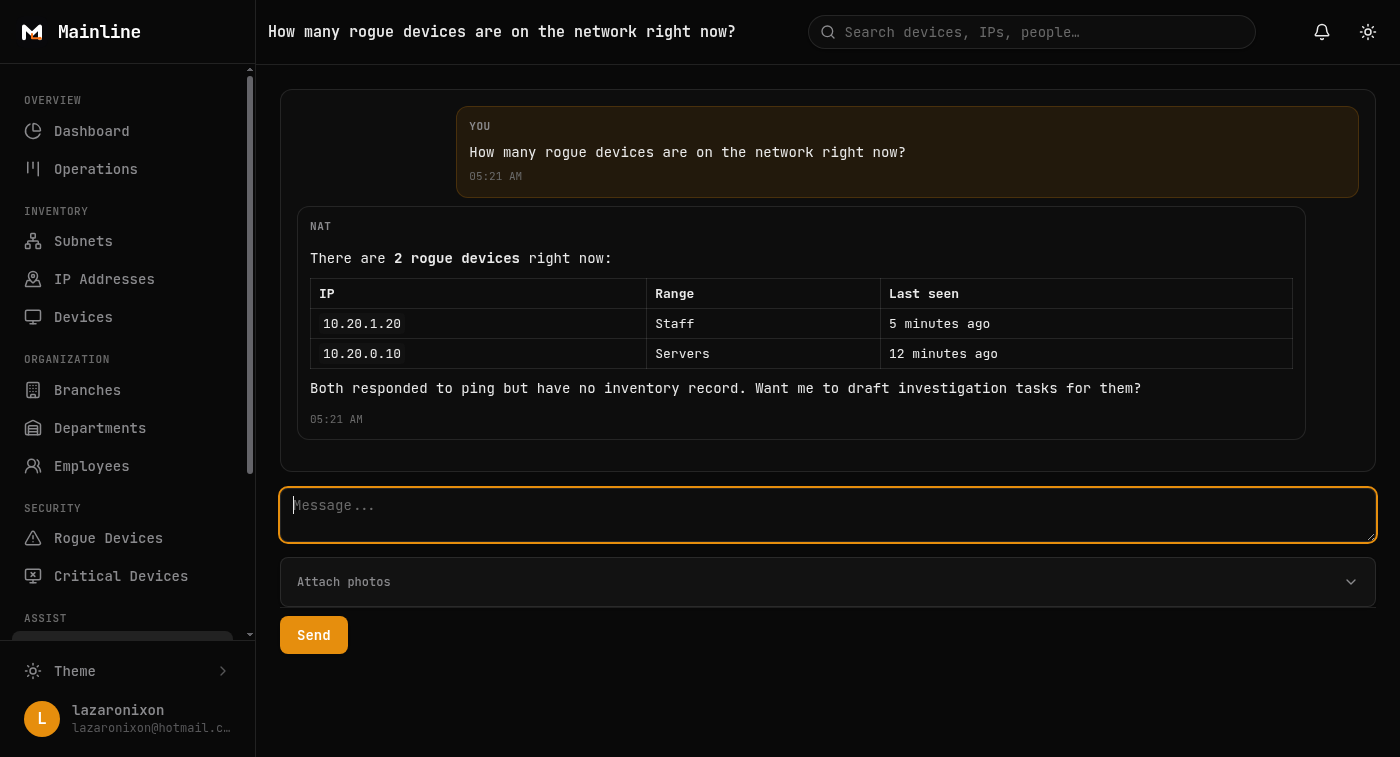
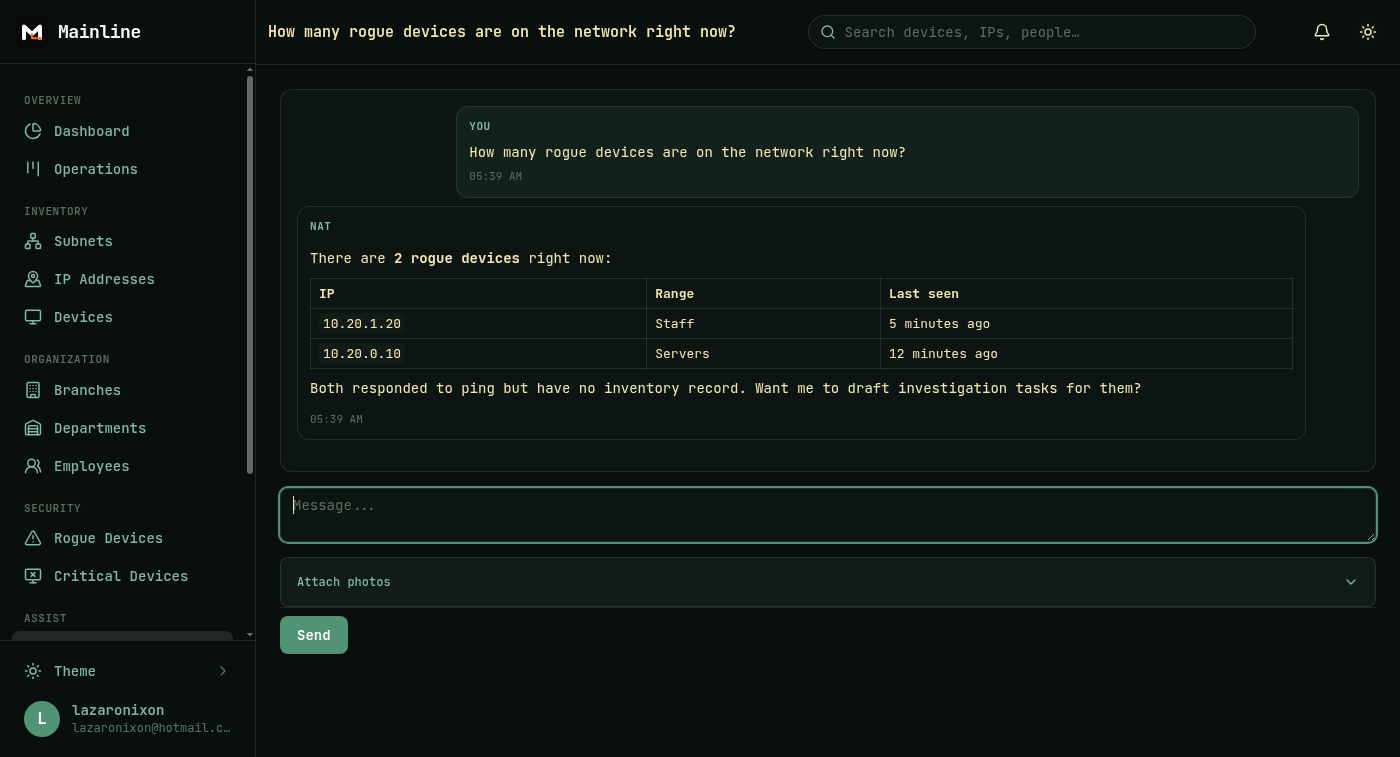
Recapture README screenshots in Osaka Jade

diff --git a/README.md b/README.md
@@ -123,4 +123,4 @@ Built by [Tolase Adegbite](https://github.com/tolaseadegbite) — full-stack Rai
 
 ## License
 
-Not yet licensed — all rights reserved until a `LICENSE` file lands.
+MIT — see [LICENSE](LICENSE).
